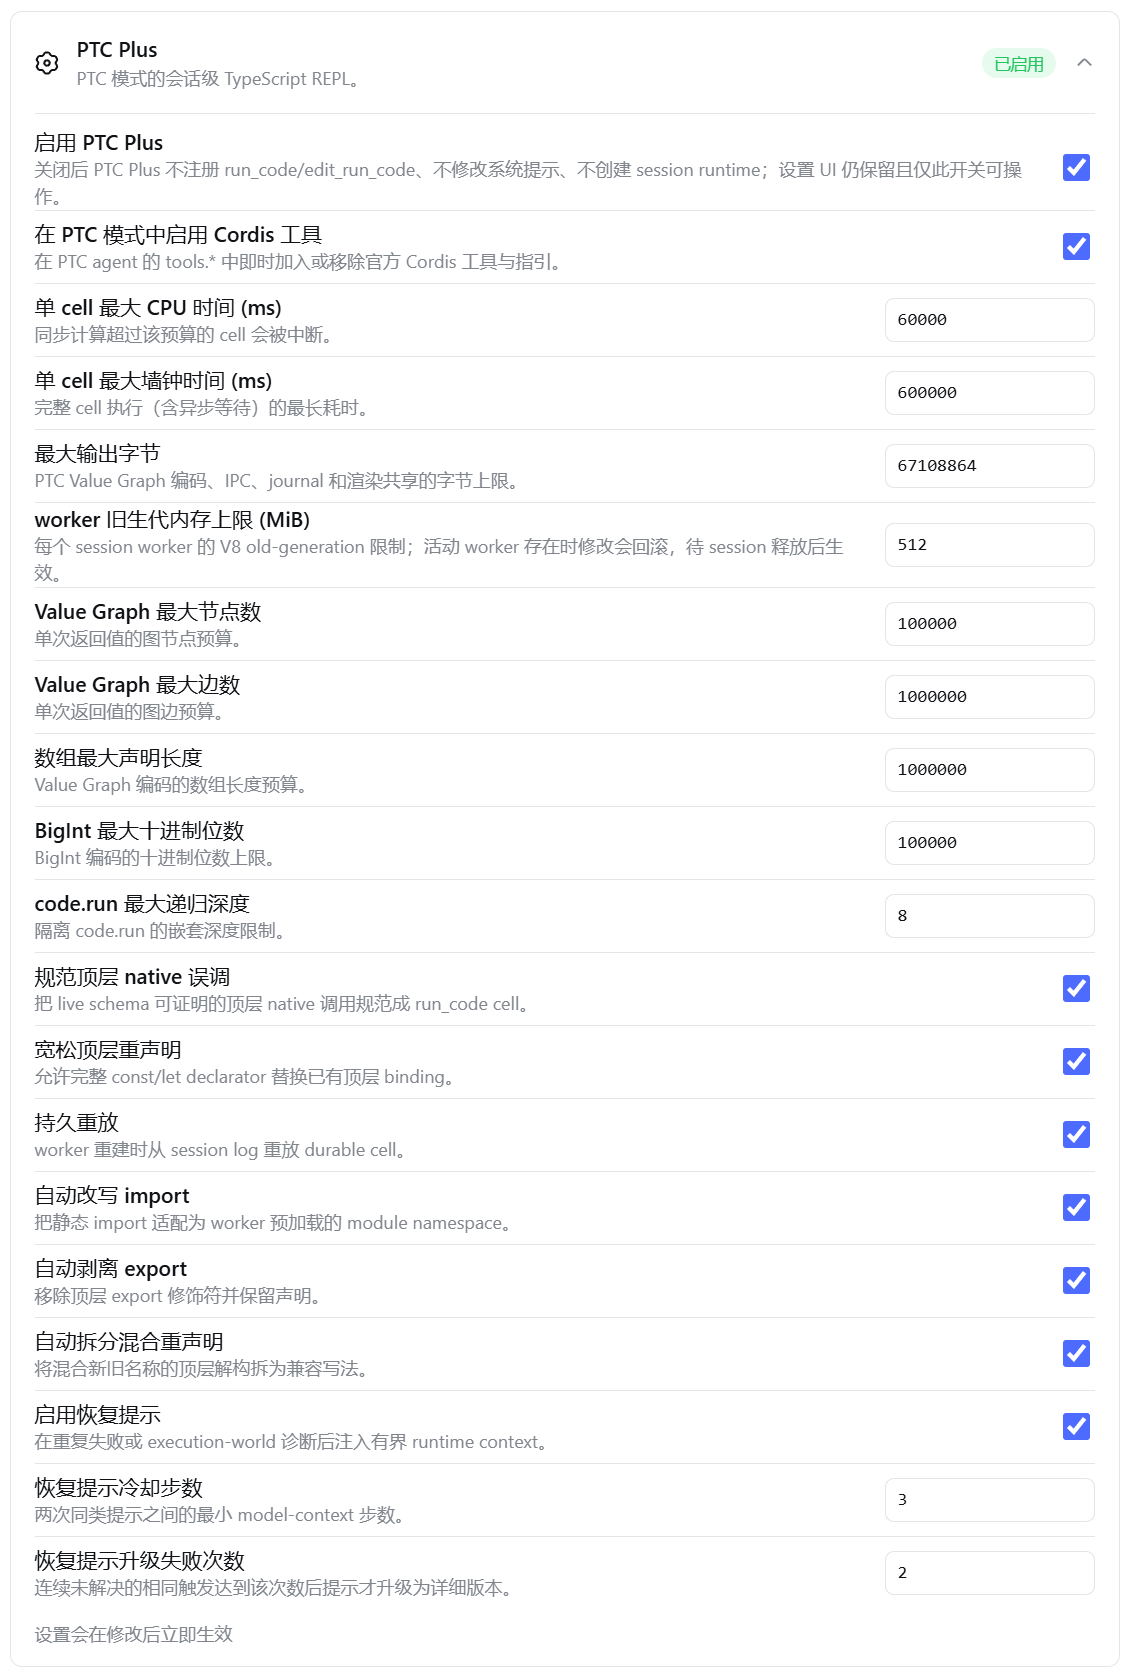
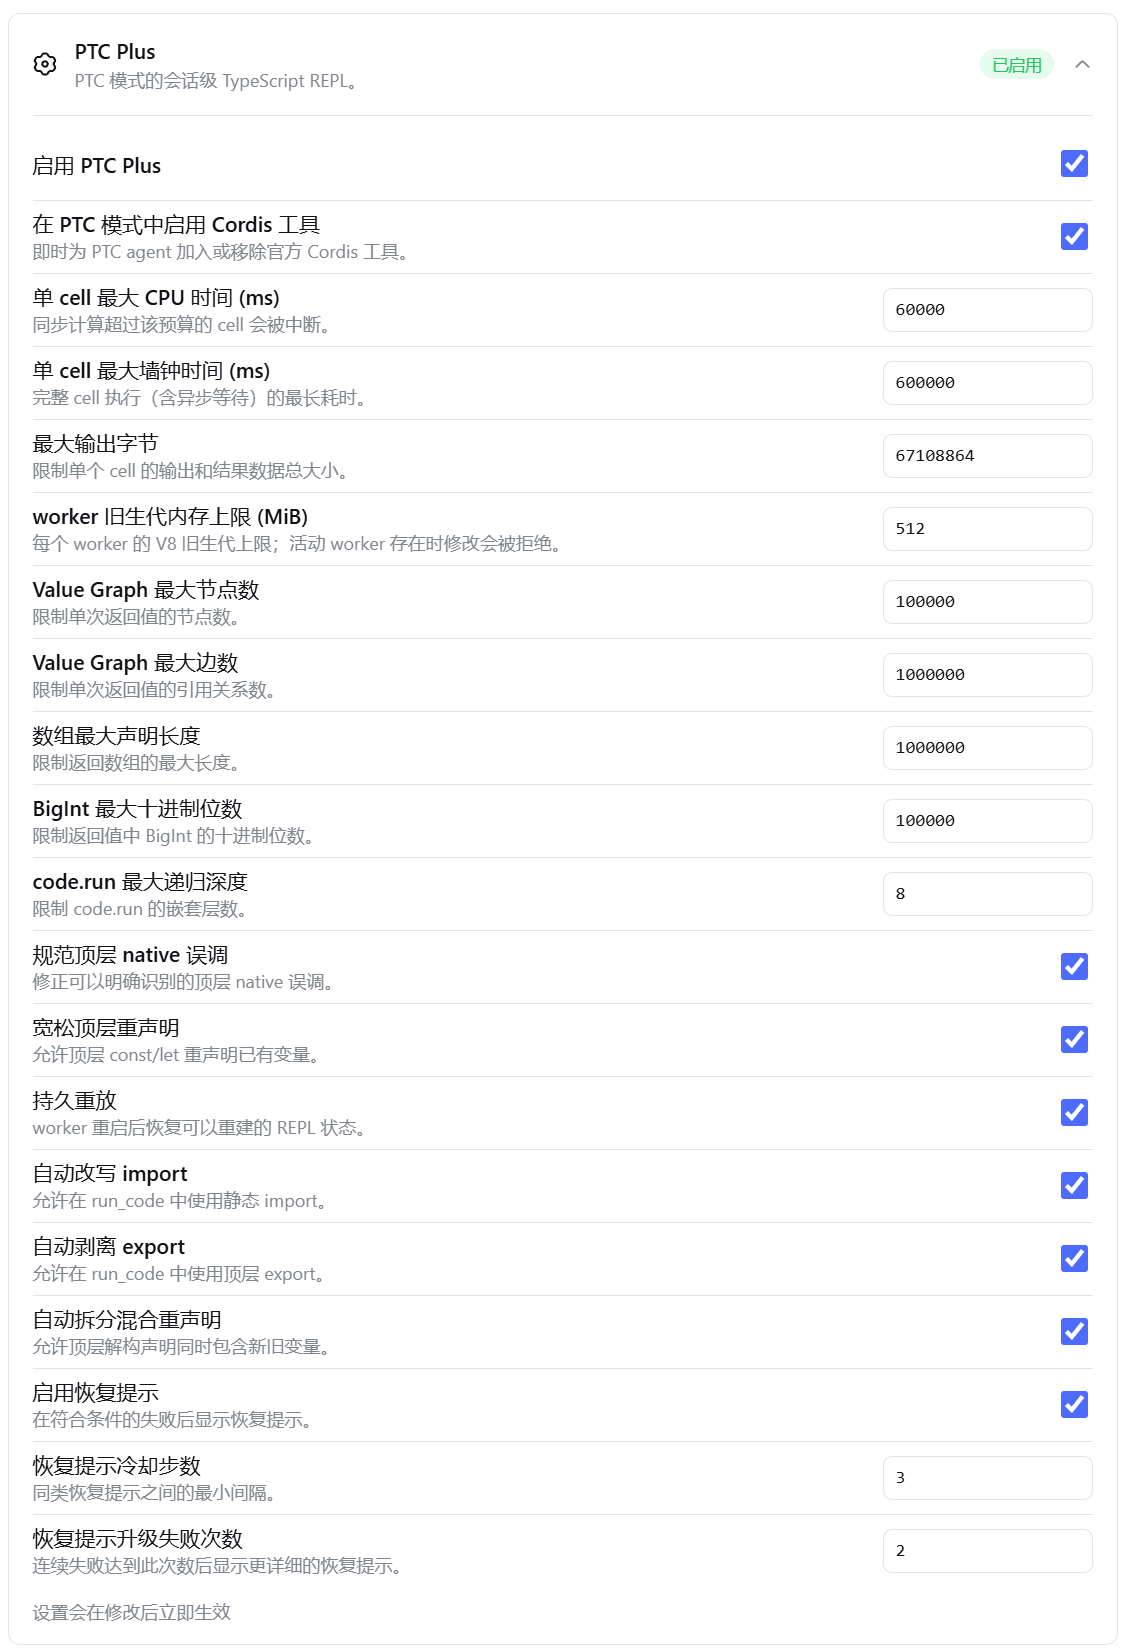
fix: align settings presentation and integration docs

diff --git a/client.js b/client.js
@@ -8,7 +8,7 @@
       type: "boolean",
       default: true,
       label: "\u542F\u7528 PTC Plus",
-      description: "\u5173\u95ED\u540E\u53EA\u4FDD\u7559\u8BBE\u7F6E\u5361\u7247\u548C\u6B64\u5F00\u5173\uFF1B\u5176\u4ED6\u8BBE\u7F6E\u4E0D\u53EF\u4FEE\u6539\u3002"
+      description: ""
     },
     {
       key: "cordisToolsEnabled",
@@ -314,7 +314,7 @@
                       "div",
                       { className: "ptcPlusMain" },
                       h("div", { className: "ptcPlusLabel" }, field.label),
-                      h("div", { className: "ptcPlusDetail" }, field.description)
+                      field.description === "" ? null : h("div", { className: "ptcPlusDetail" }, field.description)
                     ),
                     fieldInput(field, value[field.key], fieldDisabled(field), persist)
                   )),

diff --git a/src/client.js b/src/client.js
@@ -124,7 +124,7 @@ window.__ModuleLoader__.load({
                     ...CONFIG_FIELDS.map(field => h('div', { key: field.key, className: 'ptcPlusRow' },
                       h('div', { className: 'ptcPlusMain' },
                         h('div', { className: 'ptcPlusLabel' }, field.label),
-                        h('div', { className: 'ptcPlusDetail' }, field.description)),
+                        field.description === '' ? null : h('div', { className: 'ptcPlusDetail' }, field.description)),
                       fieldInput(field, value[field.key], fieldDisabled(field), persist))),
                     h('div', { key: 'footer', className: 'ptcPlusFooter' },
                       h('span', { className: 'ptcPlusMessage', role: 'status' }, status || (snapshot.writable ? '设置会在修改后立即生效' : '当前设置为只读'))),

diff --git a/internal/config-spec.js b/internal/config-spec.js
@@ -11,7 +11,7 @@ export const CONFIG_FIELDS = Object.freeze([
     type: 'boolean',
     default: true,
     label: '启用 PTC Plus',
-    description: '关闭后只保留设置卡片和此开关；其他设置不可修改。',
+    description: '',
   },
   {
     key: 'cordisToolsEnabled',

diff --git a/docs/adr/0021-separate-host-bootstrap-from-session-runtime.md b/docs/adr/0021-separate-host-bootstrap-from-session-runtime.md
@@ -1,0 +1,68 @@
+# Separate Host Bootstrap From Session Runtime
+
+## Problem
+
+PTC Plus needs to distinguish host-level work from the session-bound REPL. The
+current entry point installs tool, prompt, worker, and journal behavior in an
+agent/session scope. Moving that entry point earlier in the DSH composition
+would make those owners global and could break binding, authority, and cleanup
+boundaries.
+
+An external reference, [DSH-EasyRewrite](https://github.com/Renzic-Stone/DSH-EasyRewrite),
+shows a useful public extension pattern: a host entry point is mounted through
+`cordis.patch.yml`, while a separate client entry point consumes browser slots
+and session/workspace APIs. That project does not, however, intercept
+`sessionPersistence` or migrate raw session artifacts before restore.
+
+## Decision
+
+Keep the existing PTC Plus entry point as the agent/session runtime owner. If a
+host-level integration is needed later, add a narrow, separate bootstrap entry
+point for host configuration, diagnostics, and an upstream-provided restore
+preflight contract. The bootstrap must not create a second workspace/session
+coordinator, duplicate DSH authority, or move worker and binding state out of
+the session scope.
+
+The plugin may consume a DSH public restore-preflight migrator or an atomic raw
+artifact rewrite API when one exists. Until then, PTC Plus must not rewrite
+files obtained from private storage paths or race the persistence provider's
+append/flush queue. Legacy `ptc-plus/recovery-boundary` artifacts therefore
+remain an explicit, startup-before-restore migration concern rather than a
+runtime event handler concern.
+
+The EasyRewrite host/client split is an architectural reference only; its
+session and workspace UI APIs are not a persistence recovery mechanism.
+
+## Alternatives considered
+
+**Move the whole plugin earlier in the composition.** This would expose the
+runtime before its required agent/session services and could turn isolated
+workers, bindings, and hooks into shared state.
+
+**Load a child plugin from the current entry point.** A Cordis child plugin is
+loaded after its parent, so it cannot provide an earlier persistence hook.
+
+**Rewrite raw artifacts directly from a host plugin.** DSH currently exposes
+raw reads but not a public replacement operation. Direct path mutation depends
+on private storage layout and can conflict with active persistence writes.
+
+**Treat one failed session as a plugin-owned workspace failure.** DSH owns the
+workspace registry and session lifecycle. PTC Plus must not replicate that
+coordination layer; per-session load isolation belongs in the DSH persistence
+contract.
+
+## Consequences
+
+The runtime remains correctly scoped and EasyRewrite's public host/client
+assembly pattern remains available for future UI or host features. A plugin
+update alone cannot repair an already-running DSH process that has failed while
+loading legacy artifacts; the process must be stopped and the artifacts
+migrated before restore. Existing valid sessions are unaffected by the
+migration, while malformed legacy artifacts must fail closed and remain
+diagnosable.
+
+The long-term upstream requirement is one of: a restore-preflight migration
+hook, an atomic raw-artifact rewrite API, or a contract that isolates one bad
+session from workspace registry initialization. None of these is emulated by
+PTC Plus in the absence of a public DSH extension point.
+

diff --git a/docs/publishing.md b/docs/publishing.md
@@ -2,6 +2,18 @@
 
 本仓库是普通 DSH bundle：`package.json` 声明 `dsh.bundle.patch`、入口、依赖、Node 范围和发布白名单，`cordis.patch.yml` 只插入 `dsh-ptc-plus`。运行时依赖由 npm 包声明，DSH/Cordis service 则由宿主按 `inject` 装配，不声明虚假的 peer dependency。
 
+## 命名约定
+
+项目在不同集成层使用不同名称：
+
+| 名称 | 用途 |
+| --- | --- |
+| `dsh-ptc-plus` | 仓库和 npm 包名；浏览器 bundle 的 module name 也从 `package.json` 取得它。 |
+| `ptc-plus` | DSH 插件 ID、运行时 loader name 和 settings namespace。 |
+| `PTC Plus` | 面向用户的产品名。 |
+
+在 `cordis.patch.yml` 和解析后的 DSH 配置中，`id: ptc-plus` 标识插件配置项，`name: dsh-ptc-plus` 标识待加载的包。内部错误前缀、runtime context 名称和 worker 临时路径会按所属子系统使用 `ptc-plus` 或 `dsh-ptc-plus`；它们不是另外的公开产品名。
+
 ## Release checklist
 
 1. 在 Node `22.19.0` 与 Node 24.x 上运行 `npm ci`、`npm run build:check` 和 `npm run check`；Node 24.x 还应覆盖 Windows、Linux 与 macOS。仓库 CI 定义同一矩阵。

diff --git a/README.md b/README.md
@@ -103,7 +103,7 @@ This is one stochastic paired observation, not a performance guarantee. Machine 
 
 ## Settings
 
-Open **Settings → Plugin configuration** to use the card shown above. The `enabled` switch is live: turning it off leaves only the card and that switch, while turning it on restores the session runtime and `run_code`/`edit_run_code`. Other controls are disabled while the plugin is off.
+Open **Settings → Plugin configuration** to use the card shown above. The `enabled` switch is live: turning it off leaves only the card and that switch, while turning it on restores the session runtime and `run_code`/`edit_run_code`.
 
 Every setting applies immediately and keeps existing bindings. A failed change rolls back. Node fixes a worker's V8 old-generation limit when the worker starts, so that one setting is rejected while a session worker is active and can be changed after the session is disposed. A failed enable is rolled back and persisted as disabled.
 

diff --git a/README.zh.md b/README.zh.md
@@ -103,7 +103,7 @@ import { readFile } from 'node:fs/promises'
 
 ## 设置
 
-打开 **设置 → 插件配置** 使用上面的设置卡片。`enabled` 是即时生效的总开关：关闭后只保留卡片和这个开关，开启后恢复 session runtime 以及 `run_code`/`edit_run_code`。关闭时其他控件不可编辑。
+打开 **设置 → 插件配置** 使用上面的设置卡片。`enabled` 是即时生效的总开关：关闭后只保留卡片和这个开关，开启后恢复 session runtime 以及 `run_code`/`edit_run_code`。
 
 所有设置都会立即生效，并保留已有 binding；更新失败会回滚。Node 在 worker 创建时固定 V8 old-generation 上限，因此活动 session worker 存在时修改这一项会被拒绝，释放 session 后才能修改。启用失败时，运行时会回滚并把设置保持为停用。
 

diff --git a/docs/runtime-reference.md b/docs/runtime-reference.md
@@ -41,6 +41,8 @@ For commands, prefer project-declared scripts and use an available typed tool. W
 
 ## Configuration
 
+The configuration uses `ptc-plus` as the DSH plugin ID and `dsh-ptc-plus` as the package name. The distinction is intentional: the former is the runtime/settings identity, while the latter is the repository and npm package identity.
+
 ```yaml
 - id: ptc-plus
   name: dsh-ptc-plus
